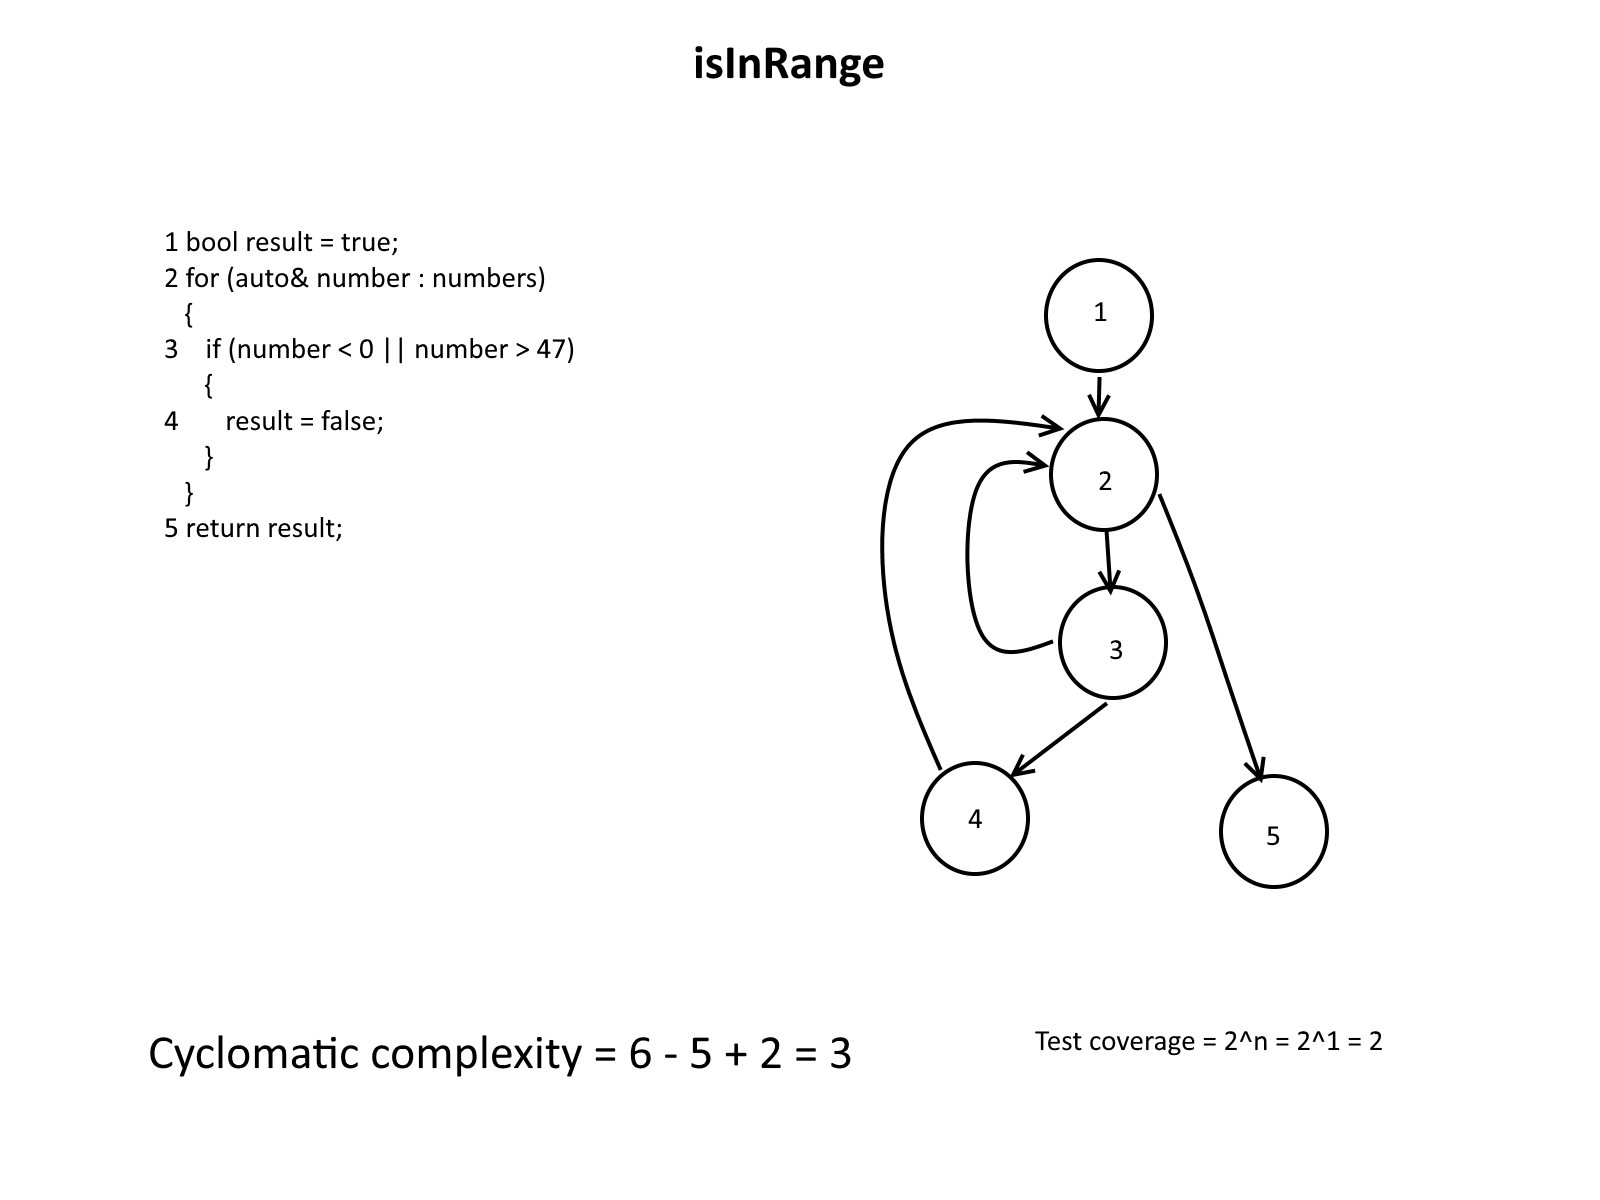
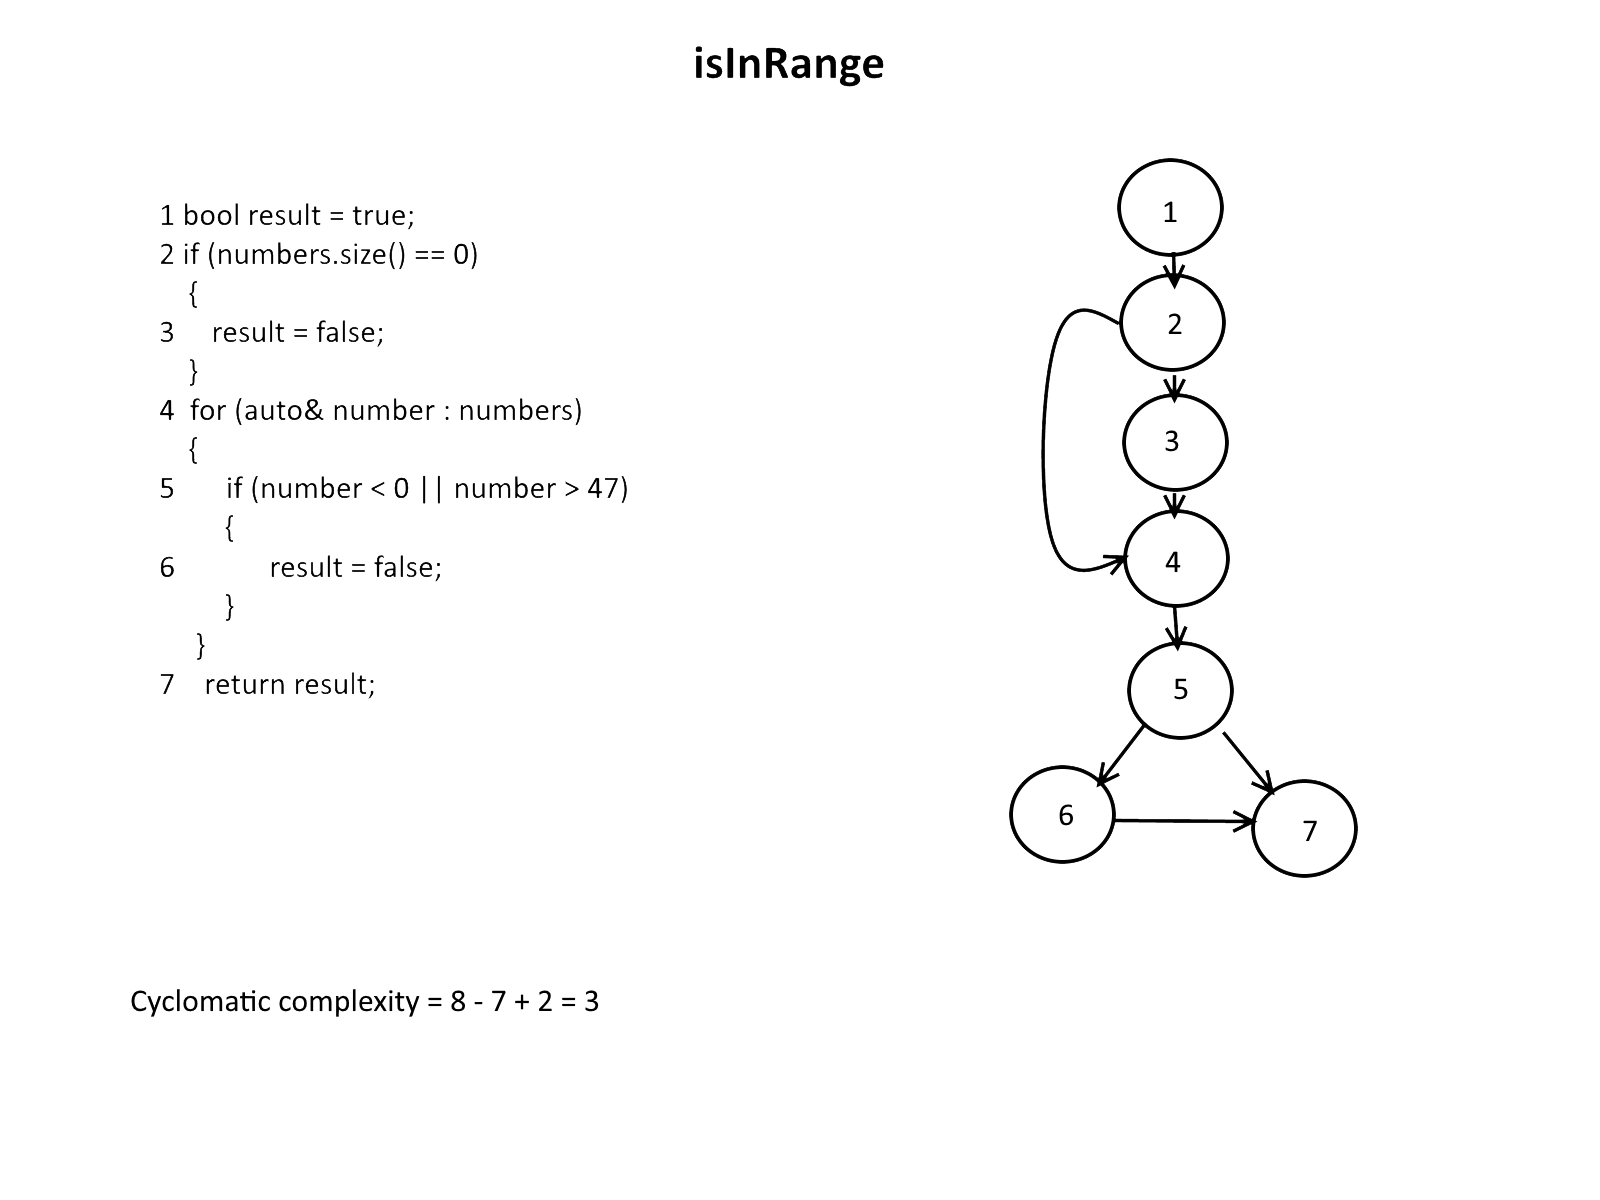
fixed images

diff --git a/AssertTest/AssertLab/ProductionProject/Production.cpp b/AssertTest/AssertLab/ProductionProject/Production.cpp
@@ -7,18 +7,18 @@
 /// <param name="numbers"></param>
 bool Production::has6Elements(std::vector<int> numbers)
 {
-		bool result = true;
-		int counter = 0;
-		for (auto& number : numbers)
-		{
-			counter++;
-		}
-		if (counter != 6)
-		{
-			result = false;
+	bool result = true;
+	int counter = 0;
+	for (auto& number : numbers)
+	{
+		counter++;
+	}
+	if (counter != 6)
+	{
+		result = false;
 
-		}
-		return result;
+	}
+	return result;
 }
 
 /// <summary>
@@ -27,15 +27,19 @@ bool Production::has6Elements(std::vector<int> numbers)
 /// <param name="numbers"></param>
 bool Production::isInRange(std::vector<int> numbers)
 {
-		bool result = true;
-		for (auto& number : numbers)
+	bool result = true;
+	if (numbers.size() == 0)
+	{
+		result = false;
+	}
+	for (auto& number : numbers)
+	{
+		if (number < 0 || number > 47)
 		{
-			if (number < 0 || number > 47)
-			{
-				result = false;
-			}
+			result = false;
 		}
-		return result;
+	}
+	return result;
 }
 
 /// <summary>
@@ -44,41 +48,41 @@ bool Production::isInRange(std::vector<int> numbers)
 /// <param name="numbers"></param>
 bool Production::hasUniqueNums(std::vector<int> numbers)
 {
-		bool result = true;
-		for (int i = 0; i < numbers.size(); i++)
+	bool result = true;
+	for (int i = 0; i < numbers.size(); i++)
+	{
+		for (int j = i + 1; j < numbers.size(); j++)
 		{
-			for (int j = i + 1; j < numbers.size(); j++)
+			if (numbers[i] == numbers[j])
 			{
-				if (numbers[i] == numbers[j])
-				{
-					result = false;
-				}
+				result = false;
 			}
 		}
-		return result;
+	}
+	return result;
 }
 
 std::pair<bool, std::vector<int>> Production::takeInput()
 {
-		std::vector<int> numbers;
-		bool result = true;
-		int counter = 0;
-		while (counter != 6)
+	std::vector<int> numbers;
+	bool result = true;
+	int counter = 0;
+	while (counter != 6)
+	{
+		int num;
+		if (!(std::cin >> num))
 		{
-			int num;
-			if (!(std::cin >> num))
-			{
-				std::cin.clear();
-				std::cin.ignore(std::numeric_limits<std::streamsize>::max(), '\n');
-				result = false;
-				break;
-			}
-			else
-			{
-				numbers.push_back(num);
-			}
-			counter++;
+			std::cin.clear();
+			std::cin.ignore(std::numeric_limits<std::streamsize>::max(), '\n');
+			result = false;
+			break;
 		}
-		return std::make_pair(result,numbers);
+		else
+		{
+			numbers.push_back(num);
+		}
+		counter++;
+	}
+	return std::make_pair(result, numbers);
 
 }
